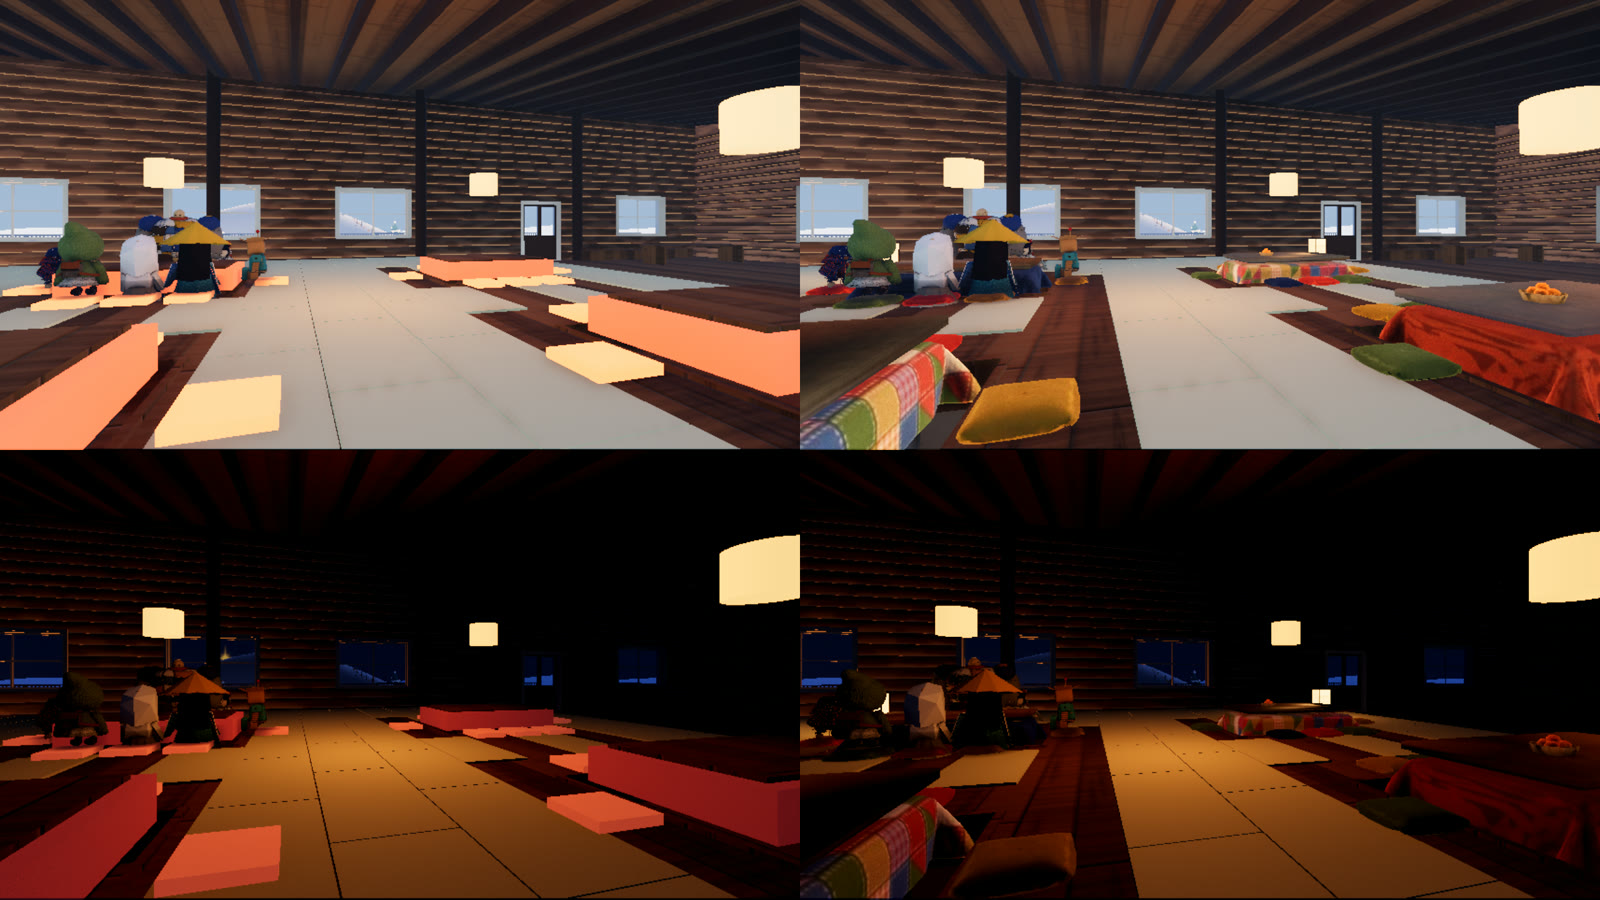
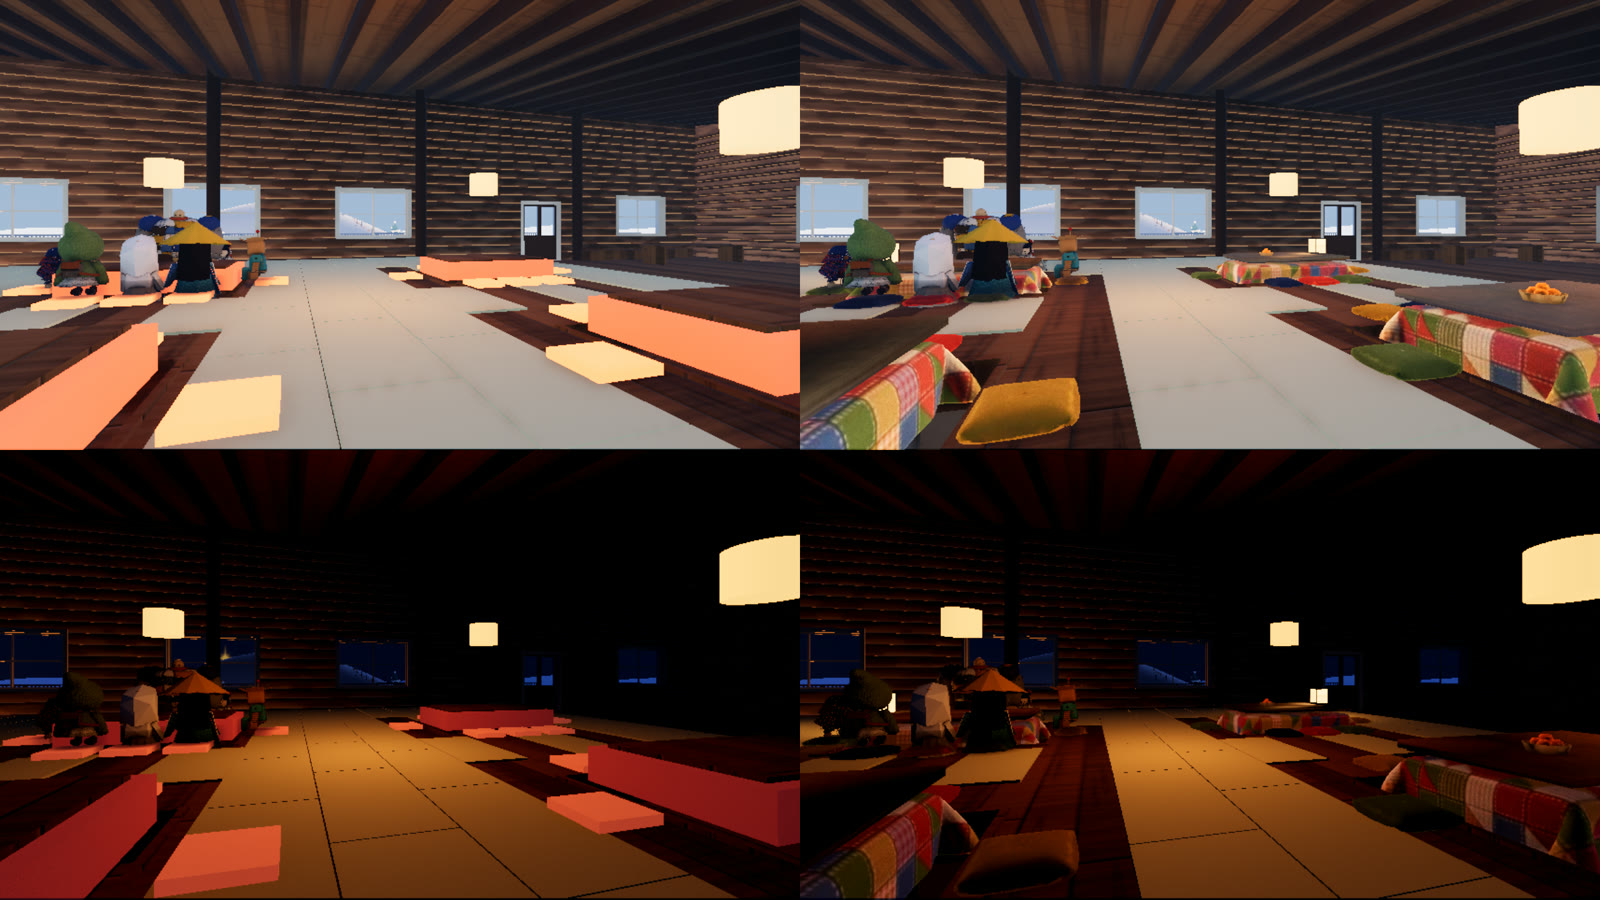
2 階のこたつの柄を 8 卓ともパッチワークにそろえる（代表「パッチワークにそろえる」）
藍と錆色の組は控えとして残す。前と後の絵を撮り直し、案の絵は外した

diff --git a/props/README.md b/props/README.md
@@ -263,7 +263,7 @@
 |---|---|
 | `hearth_nook` | 暖炉の前のくつろぎ場所: 石の暖炉、編んだ敷物、ひじ掛け椅子 2 脚、プフ、小卓と灯り、お茶とみかん、薪のかご、やかん、床置きの灯り |
 | `kotatsu_room` | 小上がりの掘りごたつ: 畳 4 枚の台、パッチワークのこたつ、座布団 4 枚、提灯、行灯、お茶とたい焼き、布団 |
-| `kotatsu_lodge_<柄>` | ロッジの 2 階の掘りごたつ 1 卓（柄は patch・indigo・rust）と座布団 8 枚。人の大きさ（2 倍しない）。座布団の上に座る所の目印 `sit_0`〜`7`（-Z がこたつの側、大きさは座布団）。`game/main.gd` が `slot_kotatsu_*` に置き、`game/seats.gd` が席にする。1 組 約 6,200 三角 |
+| `kotatsu_lodge_<柄>` | ロッジの 2 階の掘りごたつ 1 卓（柄は patch・indigo・rust）と座布団 8 枚。人の大きさ（2 倍しない）。座布団の上に座る所の目印 `sit_0`〜`7`（-Z がこたつの側、大きさは座布団）。`game/main.gd` が `slot_kotatsu_*` に置き（いまは 8 卓とも patch。indigo・rust は控え）、`game/seats.gd` が席にする。1 組 約 6,200 三角 |
 | `dining` | 食堂のカウンター: カウンター 2 区画、メニュー板 3 枚、レジと呼び鈴、お盆にラーメンとお茶・カレーとココア、中華まんのケース、給水機、吊り灯り |
 
 ```bash

diff --git a/lodge/README.md b/lodge/README.md
@@ -72,4 +72,3 @@ Blender 5.2 を画面なしで動かす。外の素材は使わない。
 | `05-day-kotatsu.png` | カット 4: 2 階の掘りごたつ |
 | `05-day-terrace.png` | カット 5: テラスから丘 |
 | `06-kotatsu-swap-*.jpg` | 2 階のこたつの差し替え（ゲームの画面。左が前、右が後。上が昼、下が夜）。`-sit-side` は 7 体を座布団に座らせた横から（`06-kotatsu-before-sit-side` が前） |
-| `06-kotatsu-option-pattern.jpg` | 代表に聞く案: 柄をパッチワークにそろえる（右） |
